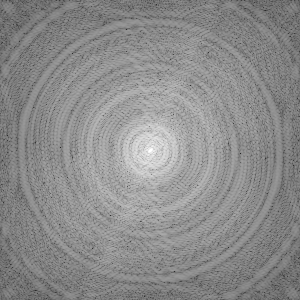
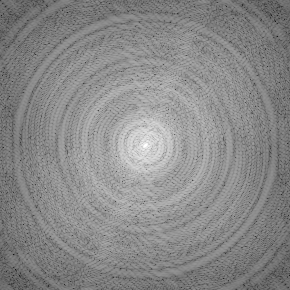
high pass

diff --git a/code/app.py b/code/app.py
@@ -11,165 +11,107 @@ from PIL import Image, ImageChops
 app = Flask(__name__)
 
 
-def update(arr, x1, x2, y1, y2):
-    for i in range(arr.shape[0]):
-        for j in range(arr.shape[1]):
-            if (i < x1 or i > x2) or (j <= y1 or j > y2):
-                arr[i][j] = 1
-    return arr
+class input:
 
+    def __init__(self, path):
+        self.img_read = cv.imread(path, 0)
+        self.img_shape = self.img_read.shape
 
-def scale(image_array):
-    image = ((image_array - image_array.min()) *
-             (1/(image_array.max() - image_array.min()) * 255)).astype('uint8')
-    return image
+        self.fourier = np.fft.fft2(self.img_read)
+        self.fourier_shift = np.fft.fftshift(self.fourier)
 
+        self.magnitude = np.abs(self.fourier_shift)
+        self.phase = np.angle(self.fourier_shift)
 
-def fourierFunc(img):
-    fourier = np.fft.fft2(img)
-    fourierShift = np.fft.fftshift(fourier)
-    return fourier, fourierShift
+        self.magnitude_spectrum = 20*np.log(np.abs(self.fourier_shift))
+        self.phase_spectrum = ((self.phase - self.phase.min()) *
+                               (1/(self.phase.max() - self.phase.min()) * 255)).astype('uint8')
+        self.scaled_phase = self.scale(self.phase)
 
+    def partSelect(self, list1, x1, x2, y1, y2):
+        selected_part = list1
+        for i in range(selected_part.shape[0]):
+            for j in range(selected_part.shape[1]):
+                if not((i < x1 or i > x2) or (j < y1 or j > y2)):
+                    selected_part[i][j] = 0
+        print(selected_part)
+        return selected_part
 
-def magnitudeSpectrum(fourierShift):
-    return 20*np.log(np.abs(fourierShift))
+    def resizeFunc(self, img1, img2):
+        newImageShape = img1.shape
+        newImageShape = (newImageShape[1], newImageShape[0])
+        img2 = cv.resize(img2, newImageShape)
 
+        return img2
 
-def phaseFunc(fourier):
-    phase = np.angle(fourier)
-    return phase
+    def scale(self, image_array):
+        image = ((image_array - image_array.min()) *
+                 (1/(image_array.max() - image_array.min()) * 255)).astype('uint8')
+        return image
 
+    def processing(self, img_2: 'input', mode, x1=0, x2=6000, y1=0, y2=6000, x11=0, x22=6000, y11=0, y22=6000):
 
-def resizeFunc(img1, img2):
-    newImageShape = img1.shape
-    newImageShape = (newImageShape[1], newImageShape[0])
-    img2 = cv.resize(img2, newImageShape)
-    return img2
+        img_2.img_read = self.resizeFunc(self.img_read, img_2.img_read)
 
+        magUni = np.ones(self.img_shape)
+        phaseUni = np.zeros(self.img_shape)
 
-def magnitudeFunc(fourier):
-    return np.abs(fourier)
+        if(mode == "Mag1-Phase2"):
+            self.magnitude = self.partSelect(self.magnitude, x1, x2, y1, y2)
+            img_2.phase = img_2.partSelect(img_2.phase, x11, x22, y11, y22)
+            self.plot(self.magnitude_spectrum, "1")
+            img_2.plot(img_2.scaled_phase, "2")
+            combined = np.multiply(self.magnitude, np.exp(1j * img_2.phase))
 
+        elif(mode == "Phase1-Mag2"):
+            self.phase = self.partSelect(self.phase, x1, x2, y1, y2)
+            img_2.magnitude = img_2.partSelect(
+                img_2.magnitude, x11, x22, y11, y22)
+            self.plot(self.scaled_phase, "1")
+            img_2.plot(img_2.magnitude_spectrum, "2")
+            combined = np.multiply(img_2.magnitude, np.exp(1j * self.phase))
 
-def plotFunc(x, s):
+        elif(mode == "Phase1-Uni2"):
+            self.phase = self.partSelect(self.phase, x1, x2, y1, y2)
+            img_2.magnitude = img_2.partSelect(magUni, x11, x22, y11, y22)
+            self.plot(self.scaled_phase, "1")
+            img_2.plot(img_2.magnitude_spectrum, "2")
+            combined = np.multiply(img_2.magnitude, np.exp(1j * self.phase))
 
-    if(s == "1"):
-        cv.imwrite('static/uploads/1.png', x)
+        elif(mode == "Uni1-Mag2"):
+            self.phase = self.partSelect(phaseUni, x1, x2, y1, y2)
+            img_2.magnitude = img_2.partSelect(
+                img_2.magnitude, x11, x22, y11, y22)
+            self.plot(self.scaled_phase, "1")
+            img_2.plot(img_2.magnitude_spectrum, "2")
+            combined = np.multiply(img_2.magnitude, np.exp(1j * self.phase))
 
-    elif(s == "2"):
-        cv.imwrite('static/uploads/2.png', x)
+        elif(mode == "Uni1-Phase2"):
+            self.magnitude = self.partSelect(magUni, x1, x2, y1, y2)
+            img_2.phase = img_2.partSelect(img_2.phase, x11, x22, y11, y22)
+            self.plot(self.magnitude_spectrum, "1")
+            img_2.plot(img_2.scaled_phase, "2")
+            combined = np.multiply(self.magnitude, np.exp(1j * img_2.phase))
 
-    elif(s == "output"):
-        cv.imwrite('static/uploads/output.png', x)
+        elif(mode == "Mag1-Uni2"):
+            self.magnitude = self.partSelect(self.magnitude, x1, x2, y1, y2)
+            img_2.phase = img_2.partSelect(phaseUni, x11, x22, y11, y22)
+            self.plot(self.magnitude_spectrum, "1")
+            img_2.plot(img_2.scaled_phase, "2")
+            combined = np.multiply(self.magnitude, np.exp(1j * img_2.phase))
 
+        mixInverse = np.real(np.fft.ifft2(combined))
+        self.plot(mixInverse, "output")
 
-def combine(mag, phase):
-    combined = np.multiply(mag, np.exp(1j * phase))
+    def plot(self, x, s):
+        if(s == "1"):
+            cv.imwrite('static/uploads/1.png', x)
 
-    return combined
+        elif(s == "2"):
+            cv.imwrite('static/uploads/2.png', x)
 
-
-def mixInverse(combined):
-    mixInverse = np.real(np.fft.ifft2(combined))
-    return mixInverse
-
-
-def processing(path1, path2, mode, x1=0, x2=6000, y1=0, y2=6000, x11=0, x22=6000, y11=0, y22=6000):
-
-    # READ & RESIZE
-    img1 = cv.imread(path1, 0)
-    img2 = cv.imread(path2, 0)
-    img2 = resizeFunc(img1, img2)
-    # IMAGE ONE FOURIER
-    fourier1, fourierShift1 = fourierFunc(img1)
-
-    # IMAGE TWO FOURIER
-    fourier2, fourierShift2 = fourierFunc(img2)
-
-    magUni1 = np.ones(img1.shape)
-    magUni2 = np.ones(img2.shape)
-    phaseUni1 = np.zeros(img1.shape)
-    phaseUni2 = np.zeros(img2.shape)
-
-    if(mode == "Mag1-Phase2"):
-        mag1 = magnitudeFunc(fourier1)
-        mag1 = update(mag1, x1, x2, y1, y2)
-        mag_spectrum = magnitudeSpectrum(fourierShift1)
-        phase2 = phaseFunc(fourier2)
-        phase2Show = scale(phase2)
-        plotFunc(mag_spectrum, "1")
-        plotFunc(phase2Show, "2")
-        phase2 = update(phase2, x11, x22, y11, y22)
-
-        combined_image = combine(mag1, phase2)
-        outputImage = mixInverse(combined_image)
-        plotFunc(outputImage, "output")
-
-    elif(mode == "Phase1-Mag2"):
-        mag2 = magnitudeFunc(fourier2)
-        mag2 = update(mag2, x11, x22, y11, y22)
-        mag_spectrum = magnitudeSpectrum(fourierShift2)
-        phase1 = phaseFunc(fourier1)
-        plotFunc(mag_spectrum, "2")
-        phase1Show = scale(phase1)
-        plotFunc(phase1Show, "1")
-        phase1 = update(phase1, x1, x2, y1, y2)
-
-        combined_image = combine(mag2, phase1)
-        outputImage = mixInverse(combined_image)
-        plotFunc(outputImage, "output")
-
-    elif(mode == "Phase1-Uni2"):
-        phase1 = phaseFunc(fourier1)
-        magSpectrum = magnitudeSpectrum(magUni2)
-        plotFunc(magSpectrum, "2")
-        phase1Show = scale(phase1)
-        plotFunc(phase1Show, "1")
-        phase1 = update(phase1, x1, x2, y1, y2)
-        magUni2 = update(magUni2, x11, x22, y11, y22)
-        combined_image = combine(magUni2, phase1)
-        outputImage = mixInverse(combined_image)
-        plotFunc(outputImage, "output")
-
-    elif(mode == "Uni1-Mag2"):
-        mag2 = magnitudeFunc(fourier2)
-        magSpectrum = magnitudeSpectrum(mag2)
-        plotFunc(magSpectrum, "2")
-        phaseUni1Show = scale(phaseUni1)
-        plotFunc(phaseUni1Show, "1")
-        mag2 = update(mag2, x11, x22, y11, y22)
-        phaseUni1 = update(phaseUni1, x1, x2, y1, y2)
-
-        combined_image = combine(mag2, phaseUni1)
-        outputImage = mixInverse(combined_image)
-        plotFunc(outputImage, "output")
-
-    elif(mode == "Uni1-Phase2"):
-        phase2 = phaseFunc(fourier2)
-        magSpectrum = magnitudeSpectrum(magUni1)
-        plotFunc(magSpectrum, "1")
-        phase2Show = scale(phase2)
-        plotFunc(phase2Show, "2")
-        phase2 = update(phase2, x11, x22, y11, y22)
-        magUni1 = update(magUni1, x1, x2, y1, y2)
-        combined_image = combine(magUni1, phase2)
-        outputImage = mixInverse(combined_image)
-        plotFunc(outputImage, "output")
-
-    elif(mode == "Mag1-Uni2"):
-        mag1 = magnitudeFunc(fourier1)
-        magSpectrum = magnitudeSpectrum(mag1)
-        plotFunc(magSpectrum, "1")
-        phaseUni2Show = scale(phaseUni2)
-        plotFunc(phaseUni2Show, "2")
-        mag1 = update(mag1, x1, x2, y1, y2)
-        phaseUni2 = update(phaseUni2, x11, x22, y11, y22)
-
-        combined_image = combine(mag1, phaseUni2)
-        outputImage = mixInverse(combined_image)
-        plotFunc(outputImage, "output")
-    else:
-        pass
+        elif(s == "output"):
+            cv.imwrite('static/uploads/output.png', x)
 
 
 @app.route('/')
@@ -214,7 +156,10 @@ def select():
 
     mode.append(values1[-1]+"-"+values2[-1])
 
-    processing('assets\image.png', 'assets\image2.png', mode[-1])
+    img_1 = input('assets\image.png')
+    img_2 = input('assets\image2.png')
+
+    img_1.processing(img_2, mode[-1])
 
     return []
 
@@ -232,6 +177,8 @@ bottom2 = [6000]
 @app.route('/Shapes', methods=['GET', 'POST'])
 def Shapes():
 
+    img_1 = input('assets\image.png')
+    img_2 = input('assets\image2.png')
     data = request.get_json()
 
     if(len(data[0]) == 0):
@@ -239,8 +186,7 @@ def Shapes():
         right1.append(6000)
         top1.append(0)
         bottom1.append(6000)
-        processing('assets\image.png', 'assets\image2.png', mode[-1])
-
+        img_1.processing(img_2, mode[-1])
     else:
         for item in data[0]:
             x1 = item["x"]
@@ -251,16 +197,16 @@ def Shapes():
             right1.append(max(x1, x2))
             top1.append(min(y1, y2))
             bottom1.append(max(y1, y2))
-            processing('assets\image.png', 'assets\image2.png',
-                       mode[-1], left1[-1], right1[-1], top1[-1], bottom1[-1], left2[-1], right2[-1], top2[-1], bottom2[-1])
+            img_1.processing(img_2, mode[-1], left1[-1], right1[-1], top1[-1],
+                             bottom1[-1], left2[-1], right2[-1], top2[-1], bottom2[-1])
 
     if(len(data[1]) == 0):
         left2.append(0)
         right2.append(6000)
         top2.append(0)
         bottom2.append(6000)
-        processing('assets\image.png', 'assets\image2.png',
-                   mode[-1], left1[-1], right1[-1], top1[-1], bottom1[-1], left2[-1], right2[-1], top2[-1], bottom2[-1])
+        img_1.processing(img_2, mode[-1], left1[-1], right1[-1], top1[-1],
+                         bottom1[-1], left2[-1], right2[-1], top2[-1], bottom2[-1])
 
     else:
         for item in data[1]:
@@ -272,8 +218,8 @@ def Shapes():
             right2.append(max(x1, x2))
             top2.append(min(y1, y2))
             bottom2.append(max(y1, y2))
-            processing('assets\image.png', 'assets\image2.png',
-                       mode[-1], left1[-1], right1[-1], top1[-1], bottom1[-1], left2[-1], right2[-1], top2[-1], bottom2[-1])
+            img_1.processing(img_2, mode[-1], left1[-1], right1[-1], top1[-1],
+                             bottom1[-1], left2[-1], right2[-1], top2[-1], bottom2[-1])
 
     return []
 
